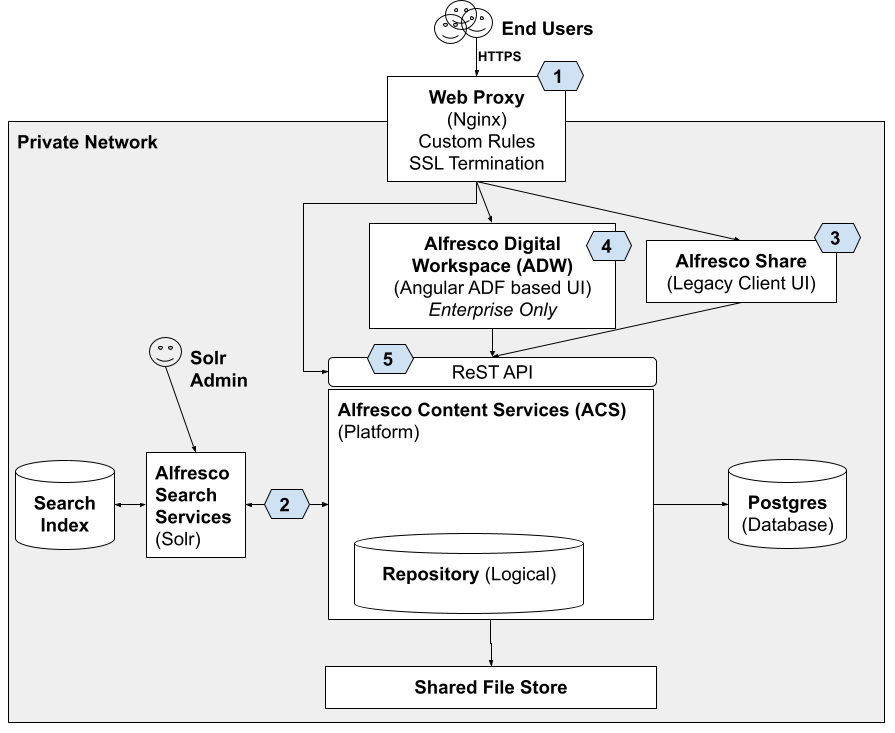
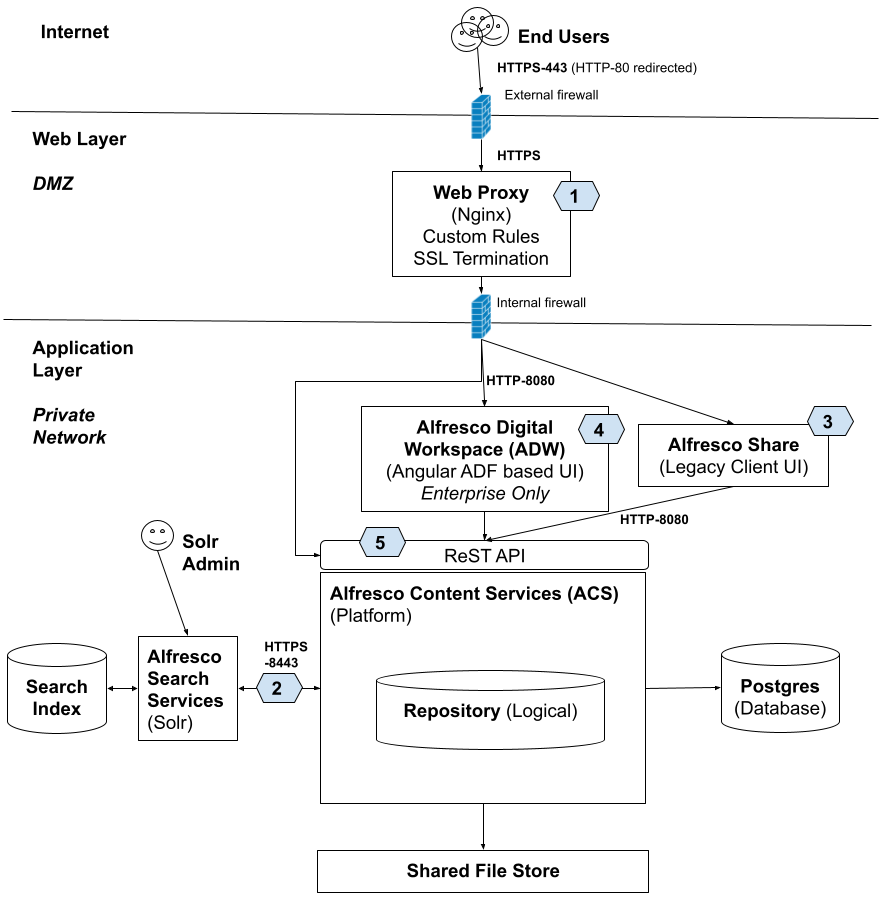
More work on securing installation page

diff --git a/content-services/latest/admin/securing-install.md b/content-services/latest/admin/securing-install.md
@@ -26,10 +26,12 @@ The most important aspect of security are the passwords used to access the syste
 first line of defense, so use as strong passwords as possible. Passwords can be strengthen in many ways. Do not ignore 
 them since they can be the difference between staying protected and compromising your security.
 
-* [Admin password in default authentication]({% link content-services/latest/admin/security.md %}#adminpwddefaultauth)
-* [Mitigate brute force attack on user passwords]({% link content-services/latest/admin/security.md %}#mitigatebruteforceattackpwd)
+* User and admin passwords 
+    * [Cryptographic password hashing]({% link content-services/latest/admin/security.md %}#bcryptoverview) for `alfrescoNTLM` authentication (i.e. users stored in database)
+    * [Admin password in default authentication]({% link content-services/latest/admin/security.md %}#adminpwddefaultauth)
+    * [Mitigate brute force attack on passwords]({% link content-services/latest/admin/security.md %}#mitigatebruteforceattackpwd)
 * [Change the default JMX passwords]({% link content-services/latest/config/index.md %}#connectthrujmx) associated with `controlRole` and `monitorRole` parameters.
-* Check whether the passwords stored in Properties files are [encrypted](#keystoresandencryption) or not.
+* Check whether the passwords stored in `alfresco-global.properties` config file, such as database password and admin password, are [encrypted]({% link content-services/latest/admin/security.md %}#encryptconfigprops).
 
 ## Do not run as root
 If someone does compromise Content Services you want to limit the damage they can do. If Content Services is running 
@@ -68,15 +70,21 @@ Note that besides HTTPS traffic (Digital Workspace, Share, WebDAV, ReST API) you
 ## Secure traffic between Repository and Solr (2)
 The Repository and Solr are separate web applications. Regardless of whether or not these webapps are running in the same 
 Tomcat server, different Tomcat servers, or even different machines, they use HTTP to communicate with each other. 
-The communication between Solr and the Repository is encrypted, by default. 
 
-The Solr web application is secured using certificate-based client authentication. But, by default, the certificate Solr 
-uses for both encryption and authentication is the one that Alfresco generates and ships with the product. This means 
-that, by default, if someone can get to your Solr port they can search your entire content repository because the public 
-has easy access to that Alfresco-generated, default client certificate.
+>**Note**. the communication between Solr and the Repository is NOT encrypted by default. 
+See [Docker Compose](https://github.com/Alfresco/acs-deployment/blob/master/docker-compose/docker-compose.yml){:target="_blank"} 
+and [Helm](https://github.com/Alfresco/acs-deployment/blob/master/helm/alfresco-content-services/values.yaml){:target="_blank"} configurations. 
 
-To fix this, either make sure no one can hit the Solr port (8443, by default) or re-generate the certificate. Or both. 
-For more info on how to re-generate the Solr certificate, see the [Search Services security documentation]({% link search-services/latest/config/security.md %}).
+When secure communication is turned on between Solr and the Repository the Solr web application uses certificate-based 
+client authentication (i.e. so the Repository knows that it is really Solr talking to it). But, by default, the 
+certificate Solr uses for both encryption and authentication is the one that Alfresco generates and ships with the product. 
+This means that, by default, if someone can get to your Solr port (8443, by default) they can search your entire content 
+repository because the public has easy access to that Alfresco-generated, default client certificate.
+
+To fix this turn on secure communcation between Solr and the Repository and re-generate the certificate. 
+ 
+Follow the [Search Services security documentation]({% link search-services/latest/config/keys.md %}) for information
+on how to set this up on Windows or Linux.
 
 ## Share Web UI security (3)
 The Alfresco Share Web UI is one of the main user interfaces used by Alfresco users. It needs to be configured 
@@ -98,12 +106,12 @@ See [repository security policies and filters]({% link content-services/latest/a
 
 The ReST API is behind the [web proxy](#addreverseproxy) so it is always accessed via HTTPS.
 
-## Encrypting config and metadata {#keystoresandencryption}
-It's possible to encrypt certain sensitive properties in the main `alfresco-global.properties` configuration file. 
-It's also possible to encrypt node (i.e. file or folder) properties (i.e. metadata). 
+## Encrypting metadata 
+It's possible to encrypt node (i.e. file or folder) properties (i.e. metadata). 
 
-* [Encrypt config properties]({% link content-services/latest/admin/security.md %}#encryptconfigprops)
-* [Manage keystores]({% link content-services/latest/admin/security.md %}#managealfkeystores) for encrypted properties, communication etc
+See [Manage keystores]({% link content-services/latest/admin/security.md %}#managealfkeystores) for encrypted properties, communication etc
+
+TODO:
 
 ## Dedicated user for external system access
 If you are going to integrate Content Services with external systems, then [create a dedicated user]({% link content-services/latest/admin/users-groups.md %}) 

diff --git a/content-services/latest/admin/security.md b/content-services/latest/admin/security.md
@@ -222,7 +222,7 @@ During bootstrap and JMX keystore reload and re-encryption operations, the repos
 
 Content Services uses cryptographic password hashing technique to securely store passwords.
 
-All versions Content Services 6.2 used the MD4 (Message Digest 4) and SHA256 hash algorithms (mainly to support NLTM) to store critical data. But this is no longer considered a secure approach as the hashed password is very easy to decrypt. You now have the option to configure Content Services to use Bcrypt to store passwords. By default, the system uses MD4 to allow users to use MD4 hashed passwords for alfrescoNTLM authentication.
+All versions Content Services 6.2 used the MD4 (Message Digest 4) and SHA256 hash algorithms (mainly to support NLTM) to store critical data. But this is no longer considered a secure approach as the hashed password is very easy to decrypt. You now have the option to configure Content Services to use Bcrypt to store passwords. By default, the system uses MD4 to allow users to use MD4 hashed passwords for `alfrescoNTLM` authentication.
 
 Bcrypt is an adaptive hash function based on the Blowfish symmetric block cipher cryptographic algorithm. It is incredibly slow to hash input compared to other functions, but this results in a much better output hash. Content Services is configured to use a strength of `10` to provide a good compromise of speed and strength.
 
